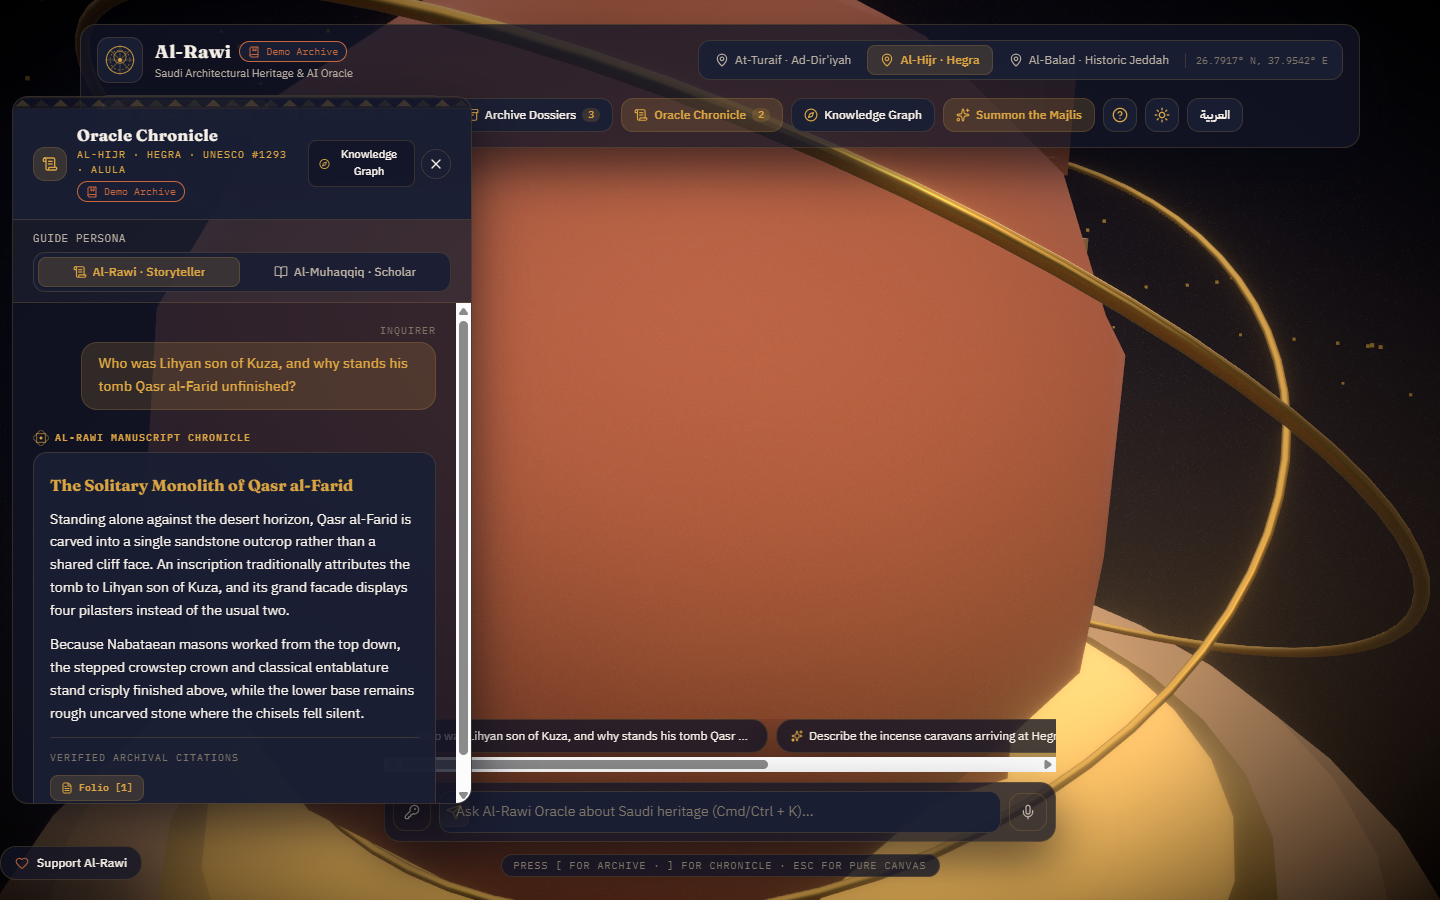
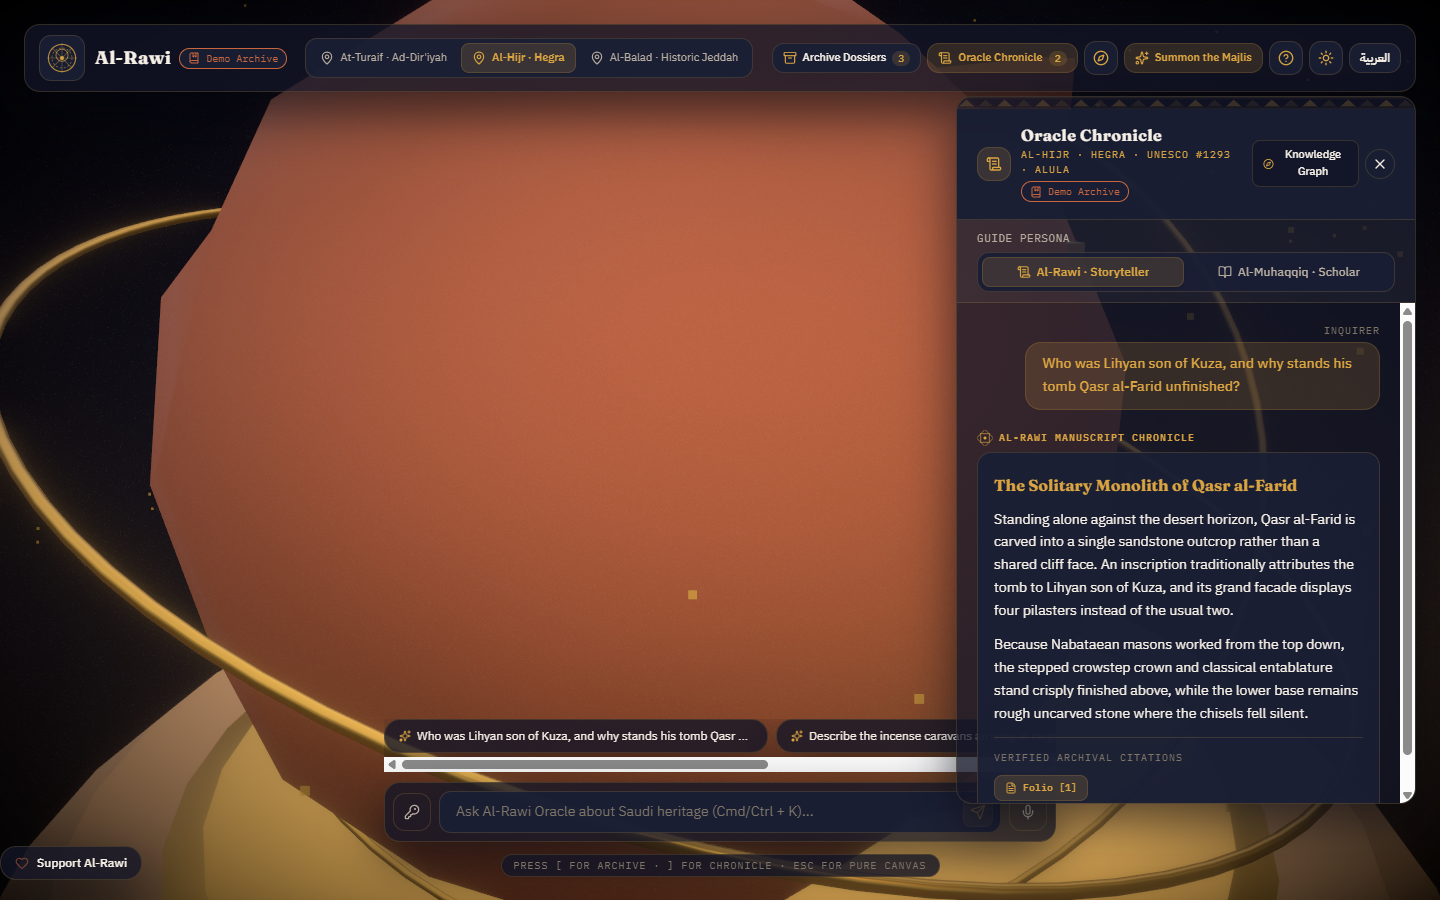
fix(ux): resolve code review findings across tour, majlis, landing and layout

diff --git a/frontend/src/components/explore/ExploreTopBar.tsx b/frontend/src/components/explore/ExploreTopBar.tsx
@@ -70,28 +70,28 @@ export default function ExploreTopBar({
 	};
 
 	return (
-		<header className="w-full max-w-7xl mx-auto pointer-events-auto">
-			<div className="glass-panel px-4 py-3 flex flex-wrap items-center justify-between gap-3">
+		<header className="w-full max-w-[1440px] mx-auto pointer-events-auto">
+			<div className="glass-panel px-3.5 py-2.5 flex flex-wrap xl:flex-nowrap items-center justify-between gap-2">
 				{/* Brand & Active Geofence Telemetry */}
-				<div className="flex items-center gap-3">
+				<div className="flex items-center gap-2.5 shrink-0">
 					<div className="p-1.5 rounded-xl bg-[var(--bg-elevated)] border border-[var(--border-subtle)]">
-						<HeritageOrnament variant="astrolabe" className="w-7 h-7" />
+						<HeritageOrnament variant="astrolabe" className="w-6 h-6" />
 					</div>
 					<div>
 						<div className="flex items-center gap-2">
-							<h1 className="text-lg font-display font-bold tracking-wide text-[var(--text-primary)]">
+							<h1 className="text-base sm:text-lg font-display font-bold tracking-wide text-[var(--text-primary)] whitespace-nowrap">
 								{tCommon("title")}
 							</h1>
 							{isDemo ? (
 								<DemoBadge className="hidden sm:inline-flex" />
 							) : (
-								<span className="hidden sm:inline-flex items-center gap-1.5 text-[10px] font-mono-tabular px-2 py-0.5 rounded-full bg-[var(--bg-elevated)] border border-[var(--border-subtle)] text-[var(--accent-oasis)]">
+								<span className="hidden 2xl:inline-flex items-center gap-1.5 text-[10px] font-mono-tabular px-2 py-0.5 rounded-full bg-[var(--bg-elevated)] border border-[var(--border-subtle)] text-[var(--accent-oasis)] whitespace-nowrap">
 									<span className="w-1.5 h-1.5 rounded-full bg-[var(--accent-oasis)] animate-pulse" />
 									{tCommon("oracleStatus")}
 								</span>
 							)}
 						</div>
-						<p className="text-[11px] text-[var(--text-secondary)] hidden sm:block">
+						<p className="text-[11px] text-[var(--text-secondary)] hidden 2xl:block">
 							{tCommon("subtitle")}
 						</p>
 					</div>
@@ -101,7 +101,7 @@ export default function ExploreTopBar({
 				<nav
 					aria-label="UNESCO World Heritage Sites"
 					data-tour="site-teleporter"
-					className="hidden lg:flex items-center gap-1 bg-[var(--bg-elevated)] border border-[var(--border-subtle)] rounded-xl p-1"
+					className="hidden lg:flex items-center gap-1 bg-[var(--bg-elevated)] border border-[var(--border-subtle)] rounded-xl p-1 shrink-0"
 				>
 					{SITE_ORDER.map((siteId) => {
 						const site = HERITAGE_SITES[siteId];
@@ -112,7 +112,7 @@ export default function ExploreTopBar({
 								key={siteId}
 								type="button"
 								onClick={() => handleSelectSite(siteId)}
-								className={`px-3 py-1.5 rounded-lg text-xs transition-all flex items-center gap-1.5 cursor-pointer ${
+								className={`px-2.5 py-1.5 rounded-lg text-[11px] 2xl:text-xs whitespace-nowrap transition-all flex items-center gap-1.5 cursor-pointer ${
 									isActive
 										? "heritage-chip font-semibold shadow-sm"
 										: "text-[var(--text-secondary)] hover:text-[var(--text-primary)]"
@@ -123,14 +123,14 @@ export default function ExploreTopBar({
 							</button>
 						);
 					})}
-					<span className="px-2.5 text-[10px] font-mono-tabular text-[var(--text-muted)] border-s border-[var(--border-subtle)]">
+					<span className="hidden 2xl:inline px-2.5 text-[10px] font-mono-tabular text-[var(--text-muted)] border-s border-[var(--border-subtle)] whitespace-nowrap">
 						{currentSiteMeta.coordinatesLabel}
 					</span>
 				</nav>
 
 				{/* Right Controls: Persona, Drawers, Map, Majlis, Theme, Locale */}
-				<div className="flex items-center gap-2 flex-wrap">
-					<div className="hidden xl:block" data-tour="persona-pill">
+				<div className="flex items-center gap-1.5 flex-wrap xl:flex-nowrap shrink-0">
+					<div className="hidden 2xl:block" data-tour="persona-pill">
 						<PersonaSelector compact />
 					</div>
 
@@ -139,7 +139,7 @@ export default function ExploreTopBar({
 						type="button"
 						onClick={() => handleToggleDrawer("archive")}
 						aria-expanded={activeDrawer === "archive"}
-						className={`px-3 py-2 rounded-xl text-xs font-medium border transition-all flex items-center gap-1.5 cursor-pointer ${
+						className={`px-2.5 py-1.5 rounded-xl text-[11px] 2xl:text-xs whitespace-nowrap font-medium border transition-all flex items-center gap-1.5 cursor-pointer ${
 							activeDrawer === "archive"
 								? "heritage-chip font-semibold"
 								: "bg-[var(--bg-elevated)] border-[var(--border-subtle)] hover:border-[var(--border-strong)] text-[var(--text-primary)]"
@@ -157,7 +157,7 @@ export default function ExploreTopBar({
 						type="button"
 						onClick={() => handleToggleDrawer("oracle")}
 						aria-expanded={activeDrawer === "oracle"}
-						className={`px-3 py-2 rounded-xl text-xs font-medium border transition-all flex items-center gap-1.5 cursor-pointer ${
+						className={`px-2.5 py-1.5 rounded-xl text-[11px] 2xl:text-xs whitespace-nowrap font-medium border transition-all flex items-center gap-1.5 cursor-pointer ${
 							activeDrawer === "oracle"
 								? "heritage-chip font-semibold"
 								: "bg-[var(--bg-elevated)] border-[var(--border-subtle)] hover:border-[var(--border-strong)] text-[var(--text-primary)]"
@@ -176,18 +176,19 @@ export default function ExploreTopBar({
 					<button
 						type="button"
 						onClick={onOpenMap}
-						className="px-3 py-2 rounded-xl text-xs font-medium bg-[var(--bg-elevated)] border border-[var(--border-subtle)] hover:border-[var(--border-strong)] text-[var(--text-primary)] transition-all flex items-center gap-1.5 cursor-pointer"
+						className="p-2 2xl:px-2.5 2xl:py-1.5 rounded-xl text-[11px] 2xl:text-xs whitespace-nowrap font-medium bg-[var(--bg-elevated)] border border-[var(--border-subtle)] hover:border-[var(--border-strong)] text-[var(--text-primary)] transition-all flex items-center gap-1.5 cursor-pointer"
 						title={tDash("viewMap")}
+						aria-label={tDash("viewMap")}
 					>
-						<Compass className="w-3.5 h-3.5 text-[var(--accent-gold)]" />
-						<span className="hidden sm:inline">{tDash("viewMap")}</span>
+						<Compass className="w-4 h-4 2xl:w-3.5 2xl:h-3.5 text-[var(--accent-gold)]" />
+						<span className="hidden 2xl:inline">{tDash("viewMap")}</span>
 					</button>
 
 					{/* Majlis Audio Studio Trigger */}
 					<button
 						type="button"
 						onClick={onSummonMajlis}
-						className="px-3 py-2 rounded-xl text-xs font-semibold heritage-chip transition-all flex items-center gap-1.5 cursor-pointer"
+						className="px-2.5 py-1.5 rounded-xl text-[11px] 2xl:text-xs whitespace-nowrap font-semibold heritage-chip transition-all flex items-center gap-1.5 cursor-pointer"
 					>
 						<Sparkles className="w-3.5 h-3.5" />
 						<span className="hidden sm:inline">{tDash("majlisTrigger")}</span>
@@ -236,7 +237,7 @@ export default function ExploreTopBar({
 					{/* Locale Switcher */}
 					<a
 						href={`/${switchLocale}/explore`}
-						className="text-xs bg-[var(--bg-elevated)] border border-[var(--border-subtle)] hover:border-[var(--border-strong)] rounded-xl px-3 py-2 text-[var(--text-primary)] transition-all font-semibold"
+						className="text-xs bg-[var(--bg-elevated)] border border-[var(--border-subtle)] hover:border-[var(--border-strong)] rounded-xl px-2.5 py-1.5 text-[var(--text-primary)] transition-all font-semibold whitespace-nowrap"
 					>
 						{switchLabel}
 					</a>

diff --git a/frontend/src/components/ui/ExploreDashboard.tsx b/frontend/src/components/ui/ExploreDashboard.tsx
@@ -29,6 +29,7 @@ import { speakWithBrowserVoice, stopBrowserVoice } from "@/lib/browserVoice";
 import { buildDemoMajlisScript } from "@/lib/demo/demoMajlis";
 import type { ExploreParams } from "@/lib/exploreParams";
 import { askOracle, OracleRequestError } from "@/lib/oracleClient";
+import { TOUR_STEPS } from "@/lib/tourSteps";
 import { HERITAGE_SITES, useUIStore } from "@/store/useUIStore";
 
 interface ExploreDashboardProps {
@@ -90,6 +91,7 @@ export default function ExploreDashboard({
 	const [isPlaying, setIsPlaying] = useState(false);
 	const [audioAnalyser, setAudioAnalyser] = useState<AnalyserNode | null>(null);
 	const [majlisNotice, setMajlisNotice] = useState("");
+	const [isBrowserVoiceActive, setIsBrowserVoiceActive] = useState(false);
 	const isBrowserVoiceRef = useRef(false);
 
 	// Audio element & context references
@@ -172,6 +174,7 @@ export default function ExploreDashboard({
 		}
 		stopBrowserVoice();
 		isBrowserVoiceRef.current = false;
+		setIsBrowserVoiceActive(false);
 		setAudioAnalyser(null);
 		setIsPlaying(false);
 	}, []);
@@ -244,6 +247,9 @@ export default function ExploreDashboard({
 		setChatInput("");
 		setActiveQuery(query);
 		setActiveDrawer("oracle");
+		if (tour.isActive && TOUR_STEPS[tour.stepIndex]?.id === "ask") {
+			tour.next();
+		}
 		setChatHistory((prev) => [
 			...prev.map((m) => ({ ...m, isNew: false })),
 			{ id: `user-${Date.now()}`, role: "user", text: query },
@@ -461,11 +467,13 @@ export default function ExploreDashboard({
 				langKey,
 				() => {
 					isBrowserVoiceRef.current = false;
+					setIsBrowserVoiceActive(false);
 					setIsPlaying(false);
 				},
 			);
 			if (spoke) {
 				isBrowserVoiceRef.current = true;
+				setIsBrowserVoiceActive(true);
 				setIsPlaying(true);
 				setMajlisNotice(tDemo("audioFallback"));
 			} else {
@@ -627,7 +635,7 @@ export default function ExploreDashboard({
 				isStreaming={isMajlisStreaming}
 				isPlaying={isPlaying}
 				script={majlisScript}
-				hasAudioAnalyser={Boolean(audioAnalyser)}
+				hasAudioAnalyser={Boolean(audioAnalyser) || isBrowserVoiceActive}
 				notice={majlisNotice}
 				onClose={() => {
 					playClick();
@@ -653,7 +661,8 @@ export default function ExploreDashboard({
 				tour={tour}
 				onAskForMe={() =>
 					handleSendChat(
-						HERITAGE_SITES[activeSite].prompts[persona][langKey][0],
+						chatInput.trim() ||
+							HERITAGE_SITES[activeSite].prompts[persona][langKey][0],
 					)
 				}
 			/>

diff --git a/frontend/src/components/onboarding/GuidedTour.tsx b/frontend/src/components/onboarding/GuidedTour.tsx
@@ -14,14 +14,17 @@ interface GuidedTourProps {
 
 const SPOTLIGHT_PADDING = 8;
 const CARD_GAP = 16;
-/** Frames to wait for an anchor: ~0.5 s normally, ~10 s for the answer citation. */
-const ANCHOR_WAIT_FRAMES = { default: 30, citation: 600 } as const;
+/** Wall-clock ms to wait for an anchor: 0.5 s normally, 10 s for the answer citation. */
+const ANCHOR_WAIT_MS = { default: 500, citation: 10_000 } as const;
 
 function findAnchor(anchor: string): HTMLElement | null {
-	const element = document.querySelector<HTMLElement>(
+	const elements = document.querySelectorAll<HTMLElement>(
 		`[data-tour="${anchor}"]`,
 	);
-	return element && element.getClientRects().length > 0 ? element : null;
+	for (const element of elements) {
+		if (element.getClientRects().length > 0) return element;
+	}
+	return null;
 }
 
 function cardPosition(rect: DOMRect | null): React.CSSProperties {
@@ -54,11 +57,11 @@ export default function GuidedTour({
 	useEffect(() => {
 		if (!isActive || !step) return;
 		let frame = 0;
-		let attempts = 0;
-		const limit =
+		const startTime = performance.now();
+		const limitMs =
 			step.anchor === "citation-chip"
-				? ANCHOR_WAIT_FRAMES.citation
-				: ANCHOR_WAIT_FRAMES.default;
+				? ANCHOR_WAIT_MS.citation
+				: ANCHOR_WAIT_MS.default;
 		setRect(null);
 		const locate = (): void => {
 			const element = findAnchor(step.anchor);
@@ -66,8 +69,7 @@ export default function GuidedTour({
 				setRect(element.getBoundingClientRect());
 				return;
 			}
-			attempts += 1;
-			if (attempts > limit) {
+			if (performance.now() - startTime > limitMs) {
 				next();
 				return;
 			}
@@ -210,7 +212,12 @@ export default function GuidedTour({
 								<>
 									<button
 										type="button"
-										onClick={next}
+										onClick={() => {
+											if (!findAnchor("citation-chip")) {
+												onAskForMe();
+											}
+											next();
+										}}
 										className={secondaryButtonClass}
 									>
 										{t("next")}

diff --git a/frontend/src/components/landing/TrustBand.tsx b/frontend/src/components/landing/TrustBand.tsx
@@ -11,12 +11,12 @@ const PILLARS = [
 ] as const;
 
 /** Source institutions the archive is designed around. Names only — no logos or endorsements. */
-const SOURCE_INSTITUTIONS: readonly string[] = [
-	"UNESCO World Heritage Centre",
-	"Royal Commission for AlUla",
-	"Diriyah Gate Development Authority",
-	"King Abdulaziz Foundation for Research and Archives (Darah)",
-];
+const SOURCE_KEYS = [
+	"sourceUnesco",
+	"sourceRcu",
+	"sourceDgda",
+	"sourceDarah",
+] as const;
 
 export default async function TrustBand(): Promise<React.ReactElement> {
 	const t = await getTranslations("Landing");
@@ -65,12 +65,12 @@ export default async function TrustBand(): Promise<React.ReactElement> {
 						{t("sourcesLabel")}
 					</p>
 					<ul className="flex flex-wrap justify-center gap-2">
-						{SOURCE_INSTITUTIONS.map((name) => (
+						{SOURCE_KEYS.map((key) => (
 							<li
-								key={name}
+								key={key}
 								className="text-xs px-3 py-1.5 rounded-full border border-[var(--border-subtle)] text-[var(--text-secondary)]"
 							>
-								{name}
+								{t(key)}
 							</li>
 						))}
 					</ul>

diff --git a/frontend/src/components/explore/OracleSheet.tsx b/frontend/src/components/explore/OracleSheet.tsx
@@ -54,7 +54,7 @@ export default function OracleSheet({
 	return (
 		<aside
 			aria-label={tDash("oracleTrigger")}
-			className="fixed inset-x-3 bottom-3 top-24 md:inset-y-24 md:inset-inline-end-6 md:inset-inline-start-auto md:w-[460px] z-30 glass-panel border border-[var(--border-strong)] flex flex-col pointer-events-auto overflow-hidden animate-in fade-in duration-200"
+			className="fixed inset-x-3 bottom-3 top-24 md:inset-y-24 md:end-6 md:start-auto md:w-[460px] z-30 glass-panel border border-[var(--border-strong)] flex flex-col pointer-events-auto overflow-hidden animate-in fade-in duration-200"
 		>
 			<HeritageOrnament variant="najdi-band" />
 
@@ -97,7 +97,10 @@ export default function OracleSheet({
 			</header>
 
 			{/* Persona Selector Bar */}
-			<div className="px-5 py-2.5 border-b border-[var(--border-subtle)] bg-[var(--bg-subtle)]">
+			<div
+				data-tour="persona-pill"
+				className="px-5 py-2.5 border-b border-[var(--border-subtle)] bg-[var(--bg-subtle)]"
+			>
 				<PersonaSelector />
 			</div>
 

diff --git a/frontend/src/components/chat/CitationDrawer.tsx b/frontend/src/components/chat/CitationDrawer.tsx
@@ -35,7 +35,7 @@ export default function CitationDrawer({
 	if (!isOpen || !citation) return null;
 
 	return (
-		<div className="fixed inset-y-4 inset-inline-end-4 w-88 max-w-[calc(100vw-2rem)] glass-panel border border-[var(--border-strong)] z-50 flex flex-col text-[var(--text-primary)] overflow-hidden animate-in fade-in duration-200">
+		<div className="fixed inset-y-4 end-4 w-88 max-w-[calc(100vw-2rem)] glass-panel border border-[var(--border-strong)] z-50 flex flex-col text-[var(--text-primary)] overflow-hidden animate-in fade-in duration-200">
 			<HeritageOrnament variant="najdi-band" />
 			<header className="p-4 border-b border-[var(--border-subtle)] flex justify-between items-center bg-[var(--bg-elevated)]">
 				<div className="flex items-center gap-2.5">

diff --git a/frontend/src/components/explore/ArchiveSheet.tsx b/frontend/src/components/explore/ArchiveSheet.tsx
@@ -72,7 +72,7 @@ export default function ArchiveSheet({
 	return (
 		<aside
 			aria-label={tDash("archiveTrigger")}
-			className="fixed inset-x-3 bottom-3 top-24 md:inset-y-24 md:inset-inline-start-6 md:inset-inline-end-auto md:w-[400px] z-30 glass-panel border border-[var(--border-strong)] flex flex-col pointer-events-auto overflow-hidden animate-in fade-in duration-200"
+			className="fixed inset-x-3 bottom-3 top-24 md:inset-y-24 md:start-6 md:end-auto md:w-[400px] z-30 glass-panel border border-[var(--border-strong)] flex flex-col pointer-events-auto overflow-hidden animate-in fade-in duration-200"
 		>
 			<HeritageOrnament variant="najdi-band" />
 

diff --git a/frontend/src/components/explore/OracleCommandBar.tsx b/frontend/src/components/explore/OracleCommandBar.tsx
@@ -115,7 +115,7 @@ export default function OracleCommandBar({
 						onClick={() => onSendChat()}
 						disabled={isThinking || !chatInput.trim()}
 						aria-label="Submit inquiry to Al-Rawi Oracle"
-						className="absolute inset-inline-end-2 p-1.5 rounded-lg heritage-chip disabled:opacity-30 cursor-pointer"
+						className="absolute end-2 p-1.5 rounded-lg heritage-chip disabled:opacity-30 cursor-pointer"
 					>
 						<Send className="w-4 h-4" />
 					</button>

diff --git a/frontend/src/components/landing/LandingHero.tsx b/frontend/src/components/landing/LandingHero.tsx
@@ -28,7 +28,9 @@ export default async function LandingHero({
 				className="relative z-10 w-full max-w-6xl mx-auto px-6 py-4 flex items-center justify-between"
 			>
 				<span className="font-display font-bold text-lg tracking-wide">
-					الراوي · {tCommon("title")}
+					{locale === "ar"
+						? "الراوي · Al-Rawi"
+						: `الراوي · ${tCommon("title")}`}
 				</span>
 				<div className="flex items-center gap-2">
 					<ThemeToggle />

diff --git a/frontend/src/lib/browserVoice.ts b/frontend/src/lib/browserVoice.ts
@@ -6,7 +6,11 @@ export function speakWithBrowserVoice(
 	locale: VoiceLocale,
 	onEnd: () => void,
 ): boolean {
-	if (typeof window === "undefined" || !("speechSynthesis" in window)) {
+	if (
+		lines.length === 0 ||
+		typeof window === "undefined" ||
+		!("speechSynthesis" in window)
+	) {
 		return false;
 	}
 	window.speechSynthesis.cancel();
